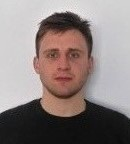
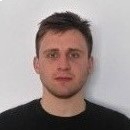
Home Page - New Section - Our Community #119

Changed region(s): [[0.0, 0.0615, 1.0, 0.9231], [0.0, 0.0, 0.0308, 0.0308]]

diff --git a/_layouts/home.html b/_layouts/home.html
@@ -263,9 +263,9 @@ layout: default
 				<div class="row ov-template-row">
 					{% assign authors = site.authors | sort: 'index' %}
 					{% for author in authors %}
-					<div class="col-6 col-sm-6 col-md-4 col-lg-3">
+					<div class="col-4 col-md-3 col-lg-3">
 						<div class="d-flex align-items-center justify-content-center community-container">
-							<img height="100" width="100" src="{{ site.url }}/img/about/team/{{ author.photo }}" alt="{{author.name}}"
+							<img height="100" width="100" src="{{ site.url }}/img/about/team/{{ author.photo }}?v=2" alt="{{author.name}}"
 							class="img-fluid w-100 profile-img-home">
 							<div class="overlay-community">
 								<div class="text-community"><h5 class="community-h5">{{ author.position }}</h5></div>

diff --git a/_scss/_banner.scss b/_scss/_banner.scss
@@ -256,8 +256,12 @@ h5 {
 .profile-img-home {
   object-fit: cover;
   border-radius: 50%;
-  max-width: 140px;
-  min-width: 140px;
+  max-width: 100px;
+  min-width: 100px;
+  @include media-breakpoint-up(md) {
+    max-width: 140px;
+    min-width: 140px;
+  }
   margin-bottom: .75rem;
   margin-top: 1rem;
 }
@@ -273,10 +277,10 @@ h5 {
 }
 .community-h5 {
   text-align: center;
-  font-size: 1rem;
   padding-bottom: 1rem;
+  font-size: .89rem;
   @include media-breakpoint-up(sm) {
-    font-size: 1.125rem;
+    // font-size: 1rem;
   }
 }
 .overlay-community {
